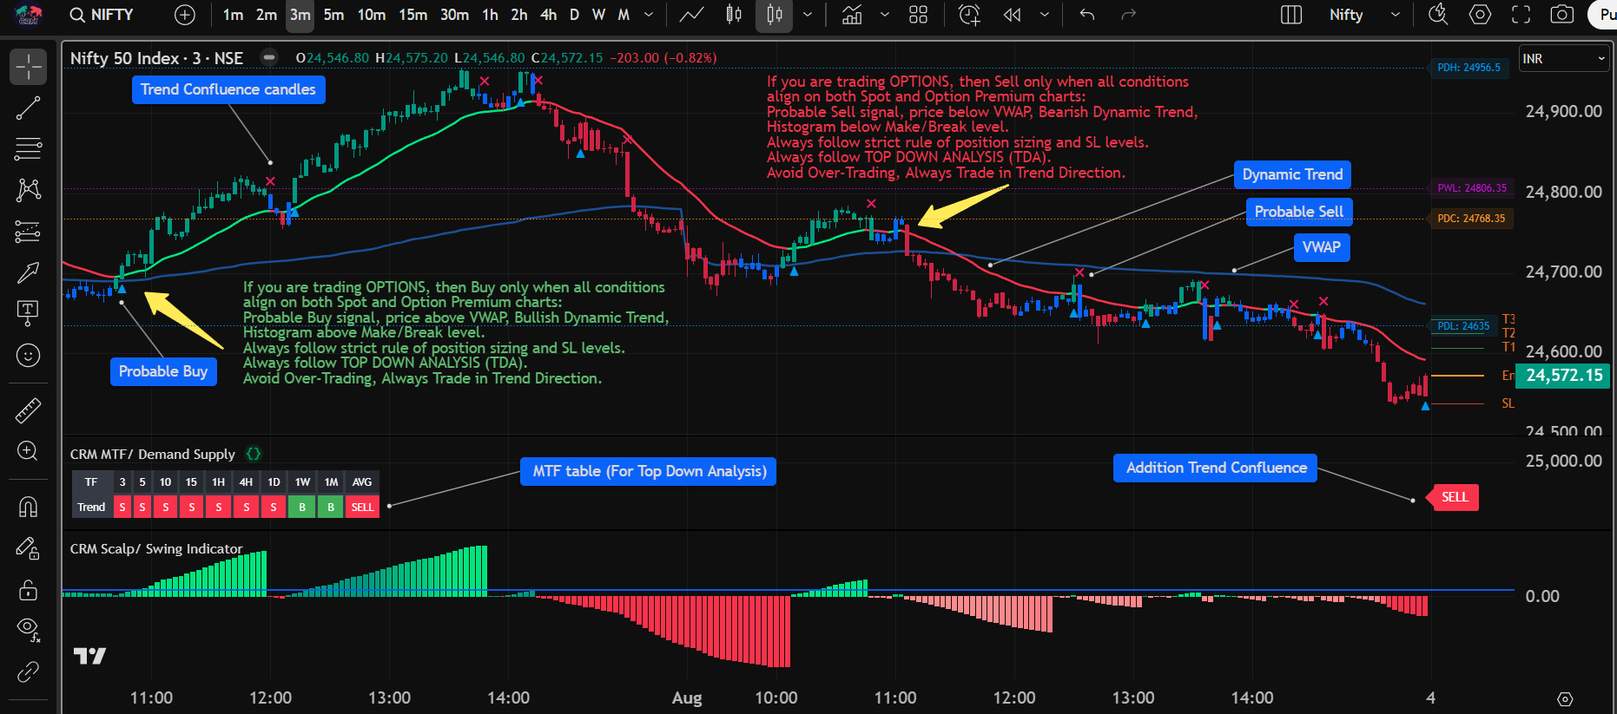
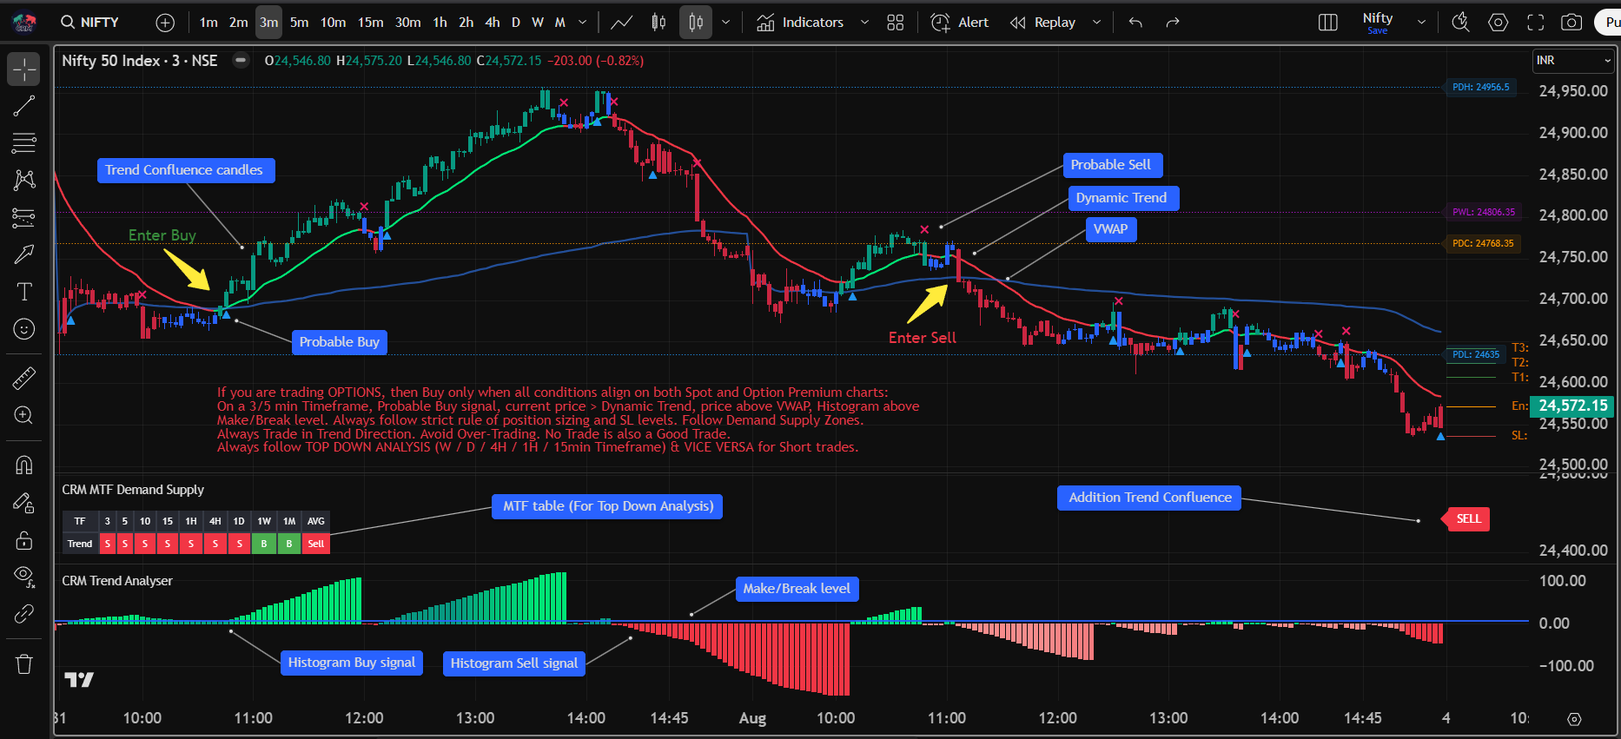
updated indicator titles and content

diff --git a/script.js b/script.js
@@ -11,7 +11,7 @@ const translations = {
     // indicator1.html Translations
     indicator_title: "CRM Trend Analyser",
     view_tradingview: "📈 View on TradingView",
-    main_heading_trend: "💡 CRM Trend Analyser PRO– <span class='highlight'>Smart Entry Level Alert Tool</span> 💡",
+    main_heading_trend: "💡 CRM Trend Analyser – <span class='highlight'>Smart Entry Level Alert Tool</span> 💡",
     subheading: "Entry-Level | Multi-Timeframe | All Segment Support",
     feature_breakout_title: "✅ Breakout-Based Trading System",
     feature_breakout_1: "Detects breakout zones using <span class='highlight'>custom price structure</span> and <span class='highlight'>moving average logic</span>",
@@ -78,12 +78,12 @@ const translations = {
     hero_btn_explore: "Explore Plans",
     hero_btn_contact: "Contact Us",
     indicators_title: "Our Creative Indicators (Premium)",
-    indicator_trend_title: 'CRM<br>Trend Analyser<br>(Free Trial)',
-    indicator_trend_desc: "<strong>CRM Trend Analyser PRO combines moving averages, oscillators, volatility-based targets, and supply-demand zones to deliver precise entry and exit signals, enhancing decision-making for scalpers, swing traders, and investors.</strong>",
+    indicator_trend_title: 'CRM<br>Trend Analyser',
+    indicator_trend_desc: "<strong>CRM Trend Analyser combines moving averages, oscillators, volatility-based targets, and supply-demand zones to deliver precise entry and exit signals, enhancing decision-making for scalpers, swing traders, and investors.</strong>",
     indicator_learn_more: "Learn More",
-    indicator_scalp_title: "CRM<br>Scalp / Swing",
-    indicator_demand_title: "CRM MTF/Demand Supply",
-    indicator_demand_desc: "<strong>CRM MTF/Demand Supply is a smart trend-tracking tool that shows a multi-timeframe trend table and auto-plots demand/supply zones—so you can spot market direction and key levels without switching charts.</strong>",
+    indicator_scalp_title: "CRM<br>Scalp Swing<br>(FREE)",
+    indicator_demand_title: "CRM MTF Demand Supply",
+    indicator_demand_desc: "<strong>CRM MTF Demand Supply is a smart trend-tracking tool that shows a multi-timeframe trend table and auto-plots demand/supply zones—so you can spot market direction and key levels without switching charts.</strong>",
     indicator_screener_title: "CRM Stock Screener",
     indicator_screener_desc: "CRM Stock Screener",
     indicator_option_title: "CRM Option Chain Decoder",
@@ -223,13 +223,13 @@ const translations = {
     feature_try_now_3: "Easy setup – just apply and start trading",
     feature_try_now_quote: "<span class='highlight'>“The best traders don’t predict the market – they align with it.”</span>",
     //ema+st
-    indicator_ema_st_desc : "<strong>CRM Multi EMA PRO with Supertrend combines EMAs (20, 50, 200) with institutional-grade Supertrend logic to generate high-probability signals, offering a clean, customizable interface for all trading styles.</strong>",
-    page_title_emasupertrend: "CRM<br>EMA/ Supertrend<br>(FREE)",
-    main_heading_ema: "💡 CRM Multi-EMA Pro with Supertrend – <span class='highlight'>Institutional-Grade Trend Analysis</span> 💡",
+    indicator_ema_st_desc : "<strong>CRM EMA Supertrend combines EMAs (9,20) with institutional-grade Supertrend logic to generate high-probability signals, offering a clean, customizable interface for all trading styles.</strong>",
+    page_title_emasupertrend: "CRM<br>EMA Supertrend<br>(FREE)",
+    main_heading_ema: "💡 CRM EMA Supertrend – <span class='highlight'>Institutional-Grade Trend Analysis</span> 💡",
     subheading_ema: "Harmonizing key EMAs with Supertrend for high-probability trade signals",
     feature_professional_title: "📊 Professional-Grade Features",
     feature_professional_1: "<span class='highlight'>Adaptive Signal Logic</span>: Patented Supertrend algorithm for precise trend reversals",
-    feature_professional_2: "<span class='highlight'>Multi-Timeframe Confirmation</span>: Validates trades when current price > EMA20 > EMA50 > EMA200",
+    feature_professional_2: "<span class='highlight'>Multi-Timeframe Confirmation</span>: Validates trades when current price > EMA9 > EMA15",
     feature_professional_3: "Clean visualization with toggleable Supertrend baseline",
     feature_professional_4: "One-click execution support for manual and automated trading",
     feature_design_title: "🎨 User-Centric Design",
@@ -251,13 +251,13 @@ const translations = {
     feature_usage_note_1: "For optimal results, combine with volume analysis and key support/resistance levels.",
     feature_usage_note_quote: "<span class='highlight'>“Institutional-grade trend analysis, simplified for every trader.”</span>",
     //ema+rsi
-    indicator_ema_rsi_desc : "<strong>CRM EMA Cross-over with RSI is a momentum-based trading tool that combines EMA crossovers, RSI strength, and VWAP confluence to deliver precise intraday entry signals, ideal for scalpers and options traders.</strong>",
-    page_title_emarsi: "CRM <br>EMA Cross/ RSI <br>(FREE)",
-    main_heading_ema_rsi: "💡 CRM EMA Cross/ RSI – <span class='highlight'>Precision Trend Trading Made Easy</span> 💡",
+    indicator_ema_rsi_desc : "<strong>CRM EMA Cross RSI is a momentum-based trading tool that combines EMA crossovers, RSI strength, and VWAP confluence to deliver precise intraday entry signals, ideal for scalpers and options traders.</strong>",
+    page_title_emarsi: "CRM<br>EMA Cross RSI<br>(FREE)",
+    main_heading_ema_rsi: "💡 CRM EMA Cross RSI – <span class='highlight'>Precision Trend Trading Made Easy</span> 💡",
     subheading_ema_rsi: "Master short-term momentum with EMA alignments, RSI confirmation, and VWAP filters",
     feature_key_title: "🔍 Key Features",
-    feature_key_1: "📈 <span class='highlight'>EMA-Based Buy/Sell Logic</span>: Buy when current price > EMA9 > EMA15, price above VWAP, and RSI > 60",
-    feature_key_2: "Sell when current price < EMA9 < EMA15, price below VWAP, and RSI < 60",
+    feature_key_1: "📈 <span class='highlight'>EMA-Based Buy/Sell Logic</span>: Buy when current price > EMA9 > EMA20, price above VWAP, and RSI above Make/Break Level",
+    feature_key_2: "Sell when current price < EMA9 < EMA20, price below VWAP, and RSI below Make/Break Level",
     feature_key_3: "Works best on 3/5 minute timeframes for intraday scalping",
     feature_visual_title: "💡 Visual Signal Overlay",
     feature_visual_1: "Clear green/red dynamic trend zones",
@@ -285,7 +285,7 @@ const translations = {
     //stock screener
     indicator_stock_screener_desc: "<strong>CRM Stock Screener is a momentum-focused tool that scans and highlights stocks showing strong price action, volume surge, and trend alignment—helping traders quickly spot high-potential breakout opportunities.</strong>",
     //scalp swing translations
-    main_heading_scalp : "💡 CRM Scalp/ Swing– <span class=highlight'>Seamless Scalps. Strategic Swings</span> 💡",
+    main_heading_scalp : "💡 CRM Scalp Swing– <span class=highlight'>Seamless Scalps. Strategic Swings</span> 💡",
     feature_breakout_4: "Plots a <span class='highlight'>momentum histogram</span> for additional confluence and trade confidence"
   },
   gu: {
@@ -368,12 +368,12 @@ const translations = {
     hero_btn_explore: "યોજનાઓ શોધો",
     hero_btn_contact: "અમારો સંપર્ક કરો",
     indicators_title: "અમારા ક્રિએટિવ સૂચકો (પ્રીમિયમ)",
-    indicator_trend_title: 'CRM<br>ટ્રેન્ડ એનાલાઇઝર<br>(મફત ટ્રાયલ)',
-    indicator_trend_desc: "<strong>CRM ટ્રેન્ડ ઍનલાઇઝર PRO મૂવિંગ ઍવરેજીઝ, ઓસિલેટર્સ, વોલેટિલિટી-આધારિત ટાર્ગેટ્સ અને સપ્લાઇ-ડિમાન્ડ ઝોન્સને જોડે છે જેથી સચોટ એન્ટ્રી અને એક્ઝિટ સિગ્નલ્સ આપે, જે સ્કેલ્પર્સ, સ્વિંગ ટ્રેડર્સ અને રોકાણકારો માટે નિર્ણય લેવાની ક્ષમતા વધારે છે.</strong>",
+    indicator_trend_title: 'CRM<br>ટ્રેન્ડ એનાલાઇઝર',
+    indicator_trend_desc: "<strong>CRM ટ્રેન્ડ ઍનલાઇઝર મૂવિંગ ઍવરેજીઝ, ઓસિલેટર્સ, વોલેટિલિટી-આધારિત ટાર્ગેટ્સ અને સપ્લાઇ-ડિમાન્ડ ઝોન્સને જોડે છે જેથી સચોટ એન્ટ્રી અને એક્ઝિટ સિગ્નલ્સ આપે, જે સ્કેલ્પર્સ, સ્વિંગ ટ્રેડર્સ અને રોકાણકારો માટે નિર્ણય લેવાની ક્ષમતા વધારે છે.</strong>",
     indicator_learn_more: "વધુ જાણો",
-    indicator_scalp_title: "CRM<br>સ્કેલ્પ / સ્વિંગ",
-    indicator_demand_title: "CRM MTF/ડિમાન્ડ સપ્લાય",
-    indicator_demand_desc: "<strong>CRM MTF/ડિમાન્ડ સપ્લાઇ એ એક સ્માર્ટ ટ્રેન્ડ-ટ્રેકિંગ ટૂલ છે જે મલ્ટી-ટાઇમફ્રેમ ટ્રેન્ડ ટેબલ દર્શાવે છે અને ડિમાન્ડ/સપ્લાઇ ઝોન્સને આપોઆપ દર્શાવે છે—જેથી તમે ચાર્ટ બદલ્યા વિના બજારની દિશા અને મુખ્ય સ્તરો શોધી શકો.</strong>",
+    indicator_scalp_title: "CRM<br>સ્કેલ્પ સ્વિંગ<br>(મફત)",
+    indicator_demand_title: "CRM MTF ડિમાન્ડ સપ્લાય",
+    indicator_demand_desc: "<strong>CRM MTF ડિમાન્ડ સપ્લાઇ એ એક સ્માર્ટ ટ્રેન્ડ-ટ્રેકિંગ ટૂલ છે જે મલ્ટી-ટાઇમફ્રેમ ટ્રેન્ડ ટેબલ દર્શાવે છે અને ડિમાન્ડ/સપ્લાઇ ઝોન્સને આપોઆપ દર્શાવે છે—જેથી તમે ચાર્ટ બદલ્યા વિના બજારની દિશા અને મુખ્ય સ્તરો શોધી શકો.</strong>",
     indicator_screener_title: "CRM સ્ટોક સ્ક્રીનર",
     indicator_screener_desc: "",
     indicator_option_title: "CRM ઓપ્શન ચેઇન ડીકોડર",
@@ -513,12 +513,12 @@ const translations = {
     feature_try_now_quote: "<span class='highlight'>“સર્વશ્રેષ્ઠ ટ્રેડર્સ બજારની આગાહી નથી કરતા – તેઓ તેની સાથે સંરેખિત થાય છે.”</span>",
     //ema+st
     indicator_ema_st_desc: "<strong>CRM મલ્ટી EMA PRO સાથે સુપરટ્રેન્ડ EMAs (20, 50, 200)ને ઇન્સ્ટિટ્યૂશનલ-ગ્રેડ સુપરટ્રેન્ડ લોજિક સાથે જોડે છે જેથી હાઇ-પ્રોબેબિલિટી સિગ્નલ્સ ઉત્પન્ન થાય, જે બધા ટ્રેડિંગ શૈલીઓ માટે સાફ અને કસ્ટમાઇઝેબલ ઇન્ટરફેસ પૂરું પાડે છે.</strong>",
-    page_title_emasupertrend: "CRM<br>EMA/ સુપરટ્રેન્ડ<br>(મફત)",
-    main_heading_ema: "💡 CRM મલ્ટી-EMA પ્રો સાથે સુપરટ્રેન્ડ – <span class='highlight'>ઇન્સ્ટિટ્યૂશનલ-ગ્રેડ ટ્રેન્ડ ઍનાલિસિસ</span> 💡",
+    page_title_emasupertrend: "CRM<br>EMA સુપરટ્રેન્ડ<br>(મફત)",
+    main_heading_ema: "💡 CRM EMA સુપરટ્રેન્ડ – <span class='highlight'>ઇન્સ્ટિટ્યૂશનલ-ગ્રેડ ટ્રેન્ડ ઍનાલિસિસ</span> 💡",
     subheading_ema: "હાઇ-પ્રોબેબિલિટી ટ્રેડ સિગ્નલ્સ માટે કી EMAsને સુપરટ્રેન્ડ સાથે સુસંગત કરે છે",
     feature_professional_title: "📊 પ્રોફેશનલ-ગ્રેડ ફીચર્સ",
     feature_professional_1: "<span class='highlight'>અડેપ્ટિવ સિગ્નલ લોજિક</span>: પેટન્ટેડ સુપરટ્રેન્ડ ઍલ્ગોરિથમ દ્વારા પ્રિસાઇઝ ટ્રેન્ડ રિવર્સલ્સ",
-    feature_professional_2: "<span class='highlight'>મલ્ટી-ટાઇમફ્રેમ પુષ્ટિ</span>: વર્તમાન કિંમત > EMA20 > EMA50 > EMA200 હોય ત્યારે ટ્રેડ્સની પુષ્ટિ કરે છે",
+    feature_professional_2: "<span class='highlight'>મલ્ટી-ટાઇમફ્રેમ પુષ્ટિ</span>: વર્તમાન કિંમત > EMA9 > EMA15 હોય ત્યારે ટ્રેડ્સની પુષ્ટિ કરે છે",
     feature_professional_3: "ટૉગલેબલ સુપરટ્રેન્ડ બેઝલાઇન સાથે સાફ વિઝ્યુઅલાઇઝેશન",
     feature_professional_4: "મેન્યુઅલ અને ઑટોમેટેડ ટ્રેડિંગ માટે એક-ક્લિક એક્ઝિક્યુશન સપોર્ટ",
     feature_design_title: "🎨 યુઝર-સેન્ટ્રિક ડિઝાઇન",
@@ -540,13 +540,13 @@ const translations = {
     feature_usage_note_1: "શ્રેષ્ઠ પરિણામો માટે, વોલ્યુમ ઍનાલિસિસ અને કી સપોર્ટ/રેઝિસ્ટન્સ લેવલ્સ સાથે જોડી દો.",
     feature_usage_note_quote: "<span class='highlight'>“ઇન્સ્ટિટ્યૂશનલ-ગ્રેડ ટ્રેન્ડ ઍનાલિસિસ, દરેક ટ્રેડર માટે સરળ કરેલ.”</span>",
     //ema+rsi
-    indicator_ema_rsi_desc: "<strong>CRM EMA ક્રોસઓવર સાથે RSI એક મોમેન્ટમ-આધારિત ટ્રેડિંગ ટૂલ છે જે EMA ક્રોસઓવર્સ, RSI શક્તિ અને VWAP કન્ફલ્યુએન્સને જોડે છે જેથી સચોટ ઇન્ટ્રાડે એન્ટ્રી સિગ્નલ્સ આપે, જે સ્કેલ્પર્સ અને ઓપ્શન્સ ટ્રેડર્સ માટે યોગ્ય છે.</strong>",
-    page_title_emarsi: "CRM<br>EMA ક્રોસ/ RSI<br>(મફત)",
-    main_heading_ema_rsi: "💡 CRM EMA ક્રોસ/ RSI – <span class='highlight'>પ્રિસિઝન ટ્રેન્ડ ટ્રેડિંગ સરળ બનાવે છે</span> 💡",
+    indicator_ema_rsi_desc: "<strong>CRM EMA ક્રોસ RSI એક મોમેન્ટમ-આધારિત ટ્રેડિંગ ટૂલ છે જે EMA ક્રોસઓવર્સ, RSI શક્તિ અને VWAP કન્ફલ્યુએન્સને જોડે છે જેથી સચોટ ઇન્ટ્રાડે એન્ટ્રી સિગ્નલ્સ આપે, જે સ્કેલ્પર્સ અને ઓપ્શન્સ ટ્રેડર્સ માટે યોગ્ય છે.</strong>",
+    page_title_emarsi: "CRM<br>EMA ક્રોસ RSI<br>(મફત)",
+    main_heading_ema_rsi: "💡 CRM EMA ક્રોસ RSI – <span class='highlight'>પ્રિસિઝન ટ્રેન્ડ ટ્રેડિંગ સરળ બનાવે છે</span> 💡",
     subheading_ema_rsi: "EMA ગોઠવણીઓ, RSI પુષ્ટિ અને VWAP ફિલ્ટર્સ સાથે શોર્ટ-ટર્મ મોમેન્ટમ માસ્ટર કરો",
     feature_key_title: "🔍 કી ફીચર્સ",
-    feature_key_1: "📈 <span class='highlight'>EMA-આધારિત ખરીદો/વેચો લોજિક</span>: વર્તમાન કિંમત > EMA9 > EMA15 હોય, કિંમત VWAPથી ઉપર હોય, અને RSI > 60 હોય ત્યારે ખરીદો",
-    feature_key_2: "વેચો જ્યારે વર્તમાન કિંમત < EMA9 < EMA15 હોય, કિંમત VWAPથી નીચે હોય, અને RSI < 60 હોય",
+    feature_key_1: "📈 <span class='highlight'>EMA-આધારિત ખરીદો/વેચો લોજિક</span>: વર્તમાન કિંમત > EMA9 > EMA20 હોય, કિંમત VWAPથી ઉપર હોય, અને RSI મેક/બ્રેક લેવલથી ઉપર હોય ત્યારે ખરીદો",
+    feature_key_2: "વેચો જ્યારે વર્તમાન કિંમત < EMA9 < EMA20 હોય, કિંમત VWAPથી નીચે હોય, અને RSI મેક/બ્રેક લેવલથી નીચે હોય",
     feature_key_3: "ઇન્ટ્રાડે સ્કેલ્પિંગ માટે 3/5 મિનિટ ટાઇમફ્રેમ્સ પર સર્વોत्तમ કામ કરે છે",
     feature_visual_title: "💡 વિઝ્યુઅલ સિગ્નલ ઓવરલે",
     feature_visual_1: "સ્પષ્ટ ગ્રીન/રેડ ડાયનામિક ટ્રેન્ડ ઝોન્સ",
@@ -572,7 +572,7 @@ const translations = {
     feature_try_now_3: "🔹 લોન્ચ પીરિયડ દરમિયાન ફ્રી – હવે ટ્રાય કરો!",
     feature_try_now_quote: "<span class='highlight'>“તમારું એજ ફક્ત ટાઇમિંગ નથી – એ સાચા મોમેન્ટમ સાથે સંરેખન છે.”</span>",
     //scalp    
-    main_heading_scalp: "💡 CRM સ્કેલ્પ/ સ્વિંગ– <span class='highlight'>સરળ સ્કેલ્પ્સ. રણનીતિગત સ્વિંગ્સ</span> 💡",
+    main_heading_scalp: "💡 CRM સ્કેલ્પ સ્વિંગ– <span class='highlight'>સરળ સ્કેલ્પ્સ. રણનીતિગત સ્વિંગ્સ</span> 💡",
     feature_breakout_4: "એક <span class='highlight'>મોમેન્ટમ હિસ્ટોગ્રામ</span> પ્લોટ કરે છે જે ઉમેરાની કન્ફલ્યુએન્સ અને ટ્રેડ આત્મવિશ્વાસ માટે છે",
     //screener
     indicator_stock_screener_desc: "<strong>CRM સ્ટોક સ્ક્રીનર એક મોમેન્ટમ-ફોકસ્ડ ટૂલ છે જે સ્ટોક્સને સ્કેન કરે છે અને મજબૂત કિંમતી કાર્યવાહી, વોલ્યુમ સર્જ અને ટ્રેન્ડ સંરેખણ દર્શાવે છે—જે ટ્રેડર્સને ઝડપથી ઉચ્ચ-સંભાવના બ્રેકઆઉટ તકો શોધવામાં મદદ કરે છે.</strong>"
@@ -657,12 +657,12 @@ const translations = {
     hero_btn_explore: "योजना शोधा",
     hero_btn_contact: "आमच्याशी संपर्क साधा",
     indicators_title: "आमचे क्रिएटिव्ह इंडिकेटर (प्रिमियम)",
-    indicator_trend_title: 'CRM<br>ट्रेंड अॅनालायझर<br>(मोफत चाचणी)',
-    indicator_trend_desc: "<strong>CRM ट्रेंड एनालायझर PRO मूव्हिंग ऍव्हरेजेस, ऑसिलेटर्स, व्होलॅटिलिटी-आधारित लक्ष्ये आणि सप्लाय-डिमांड झोन एकत्र करते ज्यामुळे अचूक एंट्री आणि एक्झिट सिग्नल्स मिळतात, जे स्कॅल्पर्स, स्विंग ट्रेडर्स आणि गुंतवणूकदारांसाठी निर्णयक्षमता वाढवते.</strong>",
+    indicator_trend_title: 'CRM<br>ट्रेंड अॅनालायझर',
+    indicator_trend_desc: "<strong>CRM ट्रेंड एनालायझर मूव्हिंग ऍव्हरेजेस, ऑसिलेटर्स, व्होलॅटिलिटी-आधारित लक्ष्ये आणि सप्लाय-डिमांड झोन एकत्र करते ज्यामुळे अचूक एंट्री आणि एक्झिट सिग्नल्स मिळतात, जे स्कॅल्पर्स, स्विंग ट्रेडर्स आणि गुंतवणूकदारांसाठी निर्णयक्षमता वाढवते.</strong>",
     indicator_learn_more: "अधिक जाणून घ्या",
-    indicator_scalp_title: "CRM<br>स्कॅल्प / स्विंग",
-    indicator_demand_title: "CRM MTF/डिमांड सप्लाय",
-    indicator_demand_desc: "<strong>CRM MTF/डिमांड सप्लाय हे एक स्मार्ट ट्रेंड-ट्रॅकिंग टूल आहे जे मल्टी-टाइमफ्रेम ट्रेंड टेबल दाखवते आणि डिमांड/सप्लाय झोन ऑटो-प्रॉट्स करते—जेणेकरून तुम्ही चार्ट बदलता येणार नाही तोपर्यंत बाजाराची दिशा आणि महत्त्वाचे स्तर शोधू शकता.</strong>",
+    indicator_scalp_title: "CRM<br>स्कॅल्प स्विंग<br>(मोफत)",
+    indicator_demand_title: "CRM MTF डिमांड सप्लाय",
+    indicator_demand_desc: "<strong>CRM MTF डिमांड सप्लाय हे एक स्मार्ट ट्रेंड-ट्रॅकिंग टूल आहे जे मल्टी-टाइमफ्रेम ट्रेंड टेबल दाखवते आणि डिमांड/सप्लाय झोन ऑटो-प्रॉट्स करते—जेणेकरून तुम्ही चार्ट बदलता येणार नाही तोपर्यंत बाजाराची दिशा आणि महत्त्वाचे स्तर शोधू शकता.</strong>",
     indicator_screener_title: "CRM स्टॉक स्क्रीनर",
     indicator_screener_desc: "",
     indicator_option_title: "CRM ऑप्शन चेन डीकोडर",
@@ -802,13 +802,13 @@ const translations = {
     feature_try_now_3: "सोपे सेटअप – फक्त लागू करा आणि ट्रेडिंग सुरू करा",
     feature_try_now_quote: "<span class='highlight'>“सर्वोत्तम ट्रेडर्स बाजाराची भविष्यवाणी करत नाहीत – ते त्याच्यासोबत जुळवून घेतात.”</span>",
     //ema+st
-    indicator_ema_st_desc: "<strong>CRM मल्टी EMA PRO सुपरट्रेंडसह EMAs (20, 50, 200) ला संस्थागत-ग्रेड सुपरट्रेंड लॉजिकसह एकत्र करते ज्यामुळे उच्च-प्रमाण सिग्नल्स निर्माण होतात, जे सर्व ट्रेडिंग शैलींसाठी स्वच्छ आणि सानुकूलित इंटरफेस देते.</strong>",
-    page_title_emasupertrend: "CRM<br>EMA/ सुपरट्रेंडसह<br>(मोफत)",
-    main_heading_ema: "💡 CRM मल्टी-EMA प्रो सुपरट्रेंडसह – <span class='highlight'>संस्थागत-ग्रेड ट्रेंड विश्लेषण</span> 💡",
+    indicator_ema_st_desc: "<strong>CRM EMA सुपरट्रेंडसह EMAs (9,20) ला संस्थागत-ग्रेड सुपरट्रेंड लॉजिकसह एकत्र करते ज्यामुळे उच्च-प्रमाण सिग्नल्स निर्माण होतात, जे सर्व ट्रेडिंग शैलींसाठी स्वच्छ आणि सानुकूलित इंटरफेस देते.</strong>",
+    page_title_emasupertrend: "CRM<br>EMA सुपरट्रेंडसह<br>(मोफत)",
+    main_heading_ema: "💡 CRM EMA प्सुपरट्रेंडसह – <span class='highlight'>संस्थागत-ग्रेड ट्रेंड विश्लेषण</span> 💡",
     subheading_ema: "उच्च-प्रमाणात ट्रेड सिग्नल्ससाठी की EMAs ला सुपरट्रेंडसह सुसंगत करते",
     feature_professional_title: "📊 प्रोफेशनल-ग्रेड वैशिष्ट्ये",
     feature_professional_1: "<span class='highlight'>अॅडाप्टिव्ह सिग्नल लॉजिक</span>: ट्रेंड रिव्हर्सल्ससाठी पेटंटेड सुपरट्रेंड अल्गोरिदम",
-    feature_professional_2: "<span class='highlight'>मल्टी-टाइमफ्रेम पुष्टी</span>: वर्तमान किंमत > EMA20 > EMA50 > EMA200 असताना ट्रेड्सची पुष्टी करते",
+    feature_professional_2: "<span class='highlight'>मल्टी-टाइमफ्रेम पुष्टी</span>: वर्तमान किंमत > EMA9 > EMA15 असताना ट्रेड्सची पुष्टी करते",
     feature_professional_3: "टॉगल करण्यायोग्य सुपरट्रेंड बेसलाइनसह स्वच्छ दृश्य",
     feature_professional_4: "मॅन्युअल आणि ऑटोमेटेड ट्रेडिंगसाठी एक-क्लिक अंमलबजावणी समर्थन",
     feature_design_title: "🎨 वापरकर्ता-केंद्रित डिझाइन",
@@ -830,13 +830,13 @@ const translations = {
     feature_usage_note_1: "श्रेष्ठ परिणामांसाठी, व्हॉल्यूम विश्लेषण आणि की सपोर्ट/रेझिस्टन्स स्तरांसह एकत्र करा.",
     feature_usage_note_quote: "<span class='highlight'>“संस्थागत-ग्रेड ट्रेंड विश्लेषण, प्रत्येक ट्रेडरसाठी सुलभ केले.”</span>",
     //ema+rsi
-    indicator_ema_rsi_desc: "<strong>CRM EMA क्रॉसओव्हर स्म RSI हे एक गती-आधारित ट्रेडिंग टूल आहे जे EMA क्रॉसओव्हर्स, RSI ताकद आणि VWAP कॉन्फ्लुएन्स एकत्र करते ज्यामुळे अचूक इंट्राडे एंट्री सिग्नल्स मिळतात, जे स्कॅल्पर्स आणि ऑप्शन्स ट्रेडर्ससाठी आदर्श आहे.</strong>",
-    page_title_emarsi: "CRM<br>EMA क्रॉस/ RSI<br>(मोफत)",
-    main_heading_ema_rsi: "💡 CRM EMA क्रॉस/ RSI – <span class='highlight'>प्रिसिजन ट्रेंड ट्रेडिंग सुलभ</span> 💡",
+    indicator_ema_rsi_desc: "<strong>CRM EMA क्रॉस RSI हे एक गती-आधारित ट्रेडिंग टूल आहे जे EMA क्रॉसओव्हर्स, RSI ताकद आणि VWAP कॉन्फ्लुएन्स एकत्र करते ज्यामुळे अचूक इंट्राडे एंट्री सिग्नल्स मिळतात, जे स्कॅल्पर्स आणि ऑप्शन्स ट्रेडर्ससाठी आदर्श आहे.</strong>",
+    page_title_emarsi: "CRM<br>EMA क्रॉस RSI<br>(मोफत)",
+    main_heading_ema_rsi: "💡 CRM EMA क्रॉस RSI – <span class='highlight'>प्रिसिजन ट्रेंड ट्रेडिंग सुलभ</span> 💡",
     subheading_ema_rsi: "EMA संरेषण, RSI पुष्टी आणि VWAP फिल्टर्ससह अल्पकालीन गती मास्टर करा",
     feature_key_title: "🔍 मुख्य वैशिष्ट्ये",
-    feature_key_1: "📈 <span class='highlight'>EMA-आधारित खरेदी/विक्री लॉजिक</span>: वर्तमान किंमत > EMA9 > EMA15, किंमत VWAP वर, आणि RSI > 60 असताना खरेदी करा",
-    feature_key_2: "विक्री करा जेव्हा वर्तमान किंमत < EMA9 < EMA15, किंमत VWAP खाली, आणि RSI < 60 असते",
+    feature_key_1: "📈 <span class='highlight'>EMA-आधारित खरेदी/विक्री लॉजिक</span>: वर्तमान किंमत > EMA9 > EMA20, किंमत VWAP वर, आणि RSI मेक/ब्रेक लेव्हलपेक्षा वर असताना खरेदी करा",
+    feature_key_2: "विक्री करा जेव्हा वर्तमान किंमत < EMA9 < EMA20, किंमत VWAP खाली, आणि RSI मेक/ब्रेक लेव्हलपेक्षा खाली असते",
     feature_key_3: "इंट्राडे स्कॅल्पिंगसाठी 3/5 मिनिट टाइमफ्रेम्सवर सर्वोत्तम काम करते",
     feature_visual_title: "💡 दृश्य सिग्नल ओव्हरले",
     feature_visual_1: "स्पष्ट ग्रीन/रेड डायनामिक ट्रेंड झोन",
@@ -862,7 +862,7 @@ const translations = {
     feature_try_now_3: "🔹 लॉन्च कालावधीत मोफत – आता प्रयत्न करा!",
     feature_try_now_quote: "<span class='highlight'>“तुमचा फायदा फक्त वेळ नाही – तो खऱ्या गतीसोबत संरेखन आहे.”</span>",
     //scalp
-    main_heading_scalp: "💡 CRM स्कॅल्प/ स्विंग– <span class='highlight'>सुकर स्कॅल्प्स. रणनीतीपूर्ण स्विंग्स</span> 💡",
+    main_heading_scalp: "💡 CRM स्कॅल्प स्विंग– <span class='highlight'>सुकर स्कॅल्प्स. रणनीतीपूर्ण स्विंग्स</span> 💡",
     feature_breakout_4: "एक <span class='highlight'>मोमेंटम हिस्टोग्राम</span> प्लॉट करतो जो अतिरिक्त कॉन्फ्लुएन्स आणि ट्रेड आत्मविश्वासासाठी आहे",
     //screener
     indicator_stock_screener_desc: "<strong>CRM स्टॉक स्क्रीनर हे गती-केंद्रित टूल आहे जे स्टॉक्स स्कॅन करून आणि मजबूत किंमत हालचाल, व्हॉल्यूम वाढ आणि ट्रेंड संरेखन दर्शवून ट्रेडर्सना उच्च-संभाव्य ब्रेकआउट संधी लवकर ओळखण्यास मदत करते.</strong>"

diff --git a/index.html b/index.html
@@ -55,21 +55,21 @@
     <!-- Free Indicators -->
     <h2 data-translate="free_indicators_title">Our Free Indicators</h2>
     <div class="indicator-cards">
-      <a href="indicator1.html" class="card-link-wrapper">
+      <a href="indicator2.html" class="card-link-wrapper">
         <div class="card trend-analyser">
-          <h3 data-translate="indicator_trend_title">CRM Trend Analyser PRO</h3>
+          <h3 data-translate="indicator_scalp_title">CRM Scalp Swing</h3>
           <div class="content-box">
-            <p data-translate="indicator_trend_desc"><strong>CRM Trend Analyser PRO blends moving averages, trend oscillators, volatility targets, and supply-demand zones to help traders time entries and exits with precision.</strong></p>
-            <a href="indicator1.html" class="card-link" data-translate="indicator_learn_more">Learn More</a>
+            <p data-translate="indicator_scalp_desc"><strong>CRM Scalp/Swing is a versatile indicator built for both scalping and swing trading, delivering accurate entry and exit signals tailored for quick intraday moves and sustained multi-day trade setups.</strong></p>
+            <a href="indicator2.html" class="card-link" data-translate="indicator_learn_more">Learn More</a>
           </div>
         </div>
       </a>
 
       <a href="indicator5.html" class="card-link-wrapper">
         <div class="card ema-st">
-          <h3 data-translate="page_title_emasupertrend">CRM Multi-EMA Pro with Supertrend</h3>
+          <h3 data-translate="page_title_emasupertrend">CRM EMA Supertrend</h3>
           <div class="content-box">
-            <p data-translate="indicator_ema_st_desc"><strong>CRM Multi EMA PRO with Supertrend combines EMAs (20, 50, 200) with institutional-grade Supertrend logic to generate high-probability signals, offering a clean, customizable interface for all trading styles.</strong></p>
+            <p data-translate="indicator_ema_st_desc"><strong>CRM EMA Supertrend combines EMAs (20, 50, 200) with institutional-grade Supertrend logic to generate high-probability signals, offering a clean, customizable interface for all trading styles.</strong></p>
             <a href="indicator5.html" class="card-link" data-translate="indicator_learn_more">Learn More</a>
           </div>          
         </div>
@@ -89,12 +89,21 @@
     <!-- Paid Indicators -->
     <h2 data-translate="indicators_title">Our Creative Indicators (Premium)</h2>
     <div class="indicator-cards">
-      <a href="indicator2.html" class="card-link-wrapper">
+      <!-- <a href="indicator2.html" class="card-link-wrapper">
         <div class="card scalp-swing">
           <h3 data-translate="indicator_scalp_title">CRM Scalp / Swing</h3>
           <div class="content-box">
             <p data-translate="indicator_scalp_desc"><strong>CRM Scalp/Swing is a versatile indicator built for both scalping and swing trading, delivering accurate entry and exit signals tailored for quick intraday moves and sustained multi-day trade setups.</strong></p>
             <a href="indicator2.html" class="card-link" data-translate="indicator_learn_more">Learn More</a>
+          </div>
+        </div>
+      </a> -->
+      <a href="indicator1.html" class="card-link-wrapper">
+        <div class="card trend-analyser">
+          <h3 data-translate="indicator_trend_title">CRM Trend Analyser PRO</h3>
+          <div class="content-box">
+            <p data-translate="indicator_trend_desc"><strong>CRM Trend Analyser PRO blends moving averages, trend oscillators, volatility targets, and supply-demand zones to help traders time entries and exits with precision.</strong></p>
+            <a href="indicator1.html" class="card-link" data-translate="indicator_learn_more">Learn More</a>
           </div>
         </div>
       </a>

diff --git a/indicator5.html b/indicator5.html
@@ -3,7 +3,7 @@
 <head>
   <meta charset="UTF-8" />
   <meta name="viewport" content="width=device-width, initial-scale=1.0" />
-  <title data-translate="page_title_emasupertrend">CRM Multi-EMA Pro with Supertrend</title>
+  <title data-translate="title">CRM Multi-EMA Pro with Supertrend</title>
   <link rel="stylesheet" href="https://fonts.googleapis.com/css2?family=Inter:wght@400;600;700&display=swap">
   <link rel="stylesheet" href="indicator1.css">
   <link rel="stylesheet" href="style.css">
@@ -41,7 +41,7 @@
     <div class="carousel-wrapper">
       <button class="nav-button nav-btn-left" id="prevBtn" style="display: none;">❮</button>
       <div class="carousel-track" id="carousel">
-        <img src="images/CRM Multi-EMA Pro with Supertrend.png" alt="Slide 1" class="carousel-image" />
+        <img src="images/CRM EMA SUPERTREND.png" alt="Slide 1" class="carousel-image" />
         <!-- <img src="images/CRM-EMA-Tutorial-2.png" alt="Slide 2" class="carousel-image" /> -->
       </div>
       <button class="nav-button nav-btn-right" id="nextBtn">❯</button>

diff --git a/indicator2.html b/indicator2.html
@@ -41,7 +41,7 @@
     <div class="carousel-wrapper">
       <button class="nav-button nav-btn-left" id="prevBtn" style="display: none;">❮</button>
       <div class="carousel-track" id="carousel">
-        <img src="images/CRM SWING SCALP indicator.png" alt="Slide 1" class="carousel-image" />
+        <img src="images/CRM TREND ANALYSER PRO.png" alt="Slide 1" class="carousel-image" />
         <!-- <img src="images/CRM PRO Tutorial-2.png" alt="Slide 2" class="carousel-image" /> -->
       </div>
       <button class="nav-button nav-btn-right" id="nextBtn">❯</button>

diff --git a/indicator6.html b/indicator6.html
@@ -41,7 +41,7 @@
     <div class="carousel-wrapper">
       <button class="nav-button nav-btn-left" id="prevBtn" style="display: none;">❮</button>
       <div class="carousel-track" id="carousel">
-        <img src="images/CRM EMA Crossover with RSI.png" alt="Slide 1" class="carousel-image" />
+        <img src="images/CRM EMA CROSS RSI.png" alt="Slide 1" class="carousel-image" />
         <!-- <img src="images/CRM-EMA-RSI-Tutorial-2.png" alt="Slide 2" class="carousel-image" /> -->
       </div>
       <button class="nav-button nav-btn-right" id="nextBtn">❯</button>

diff --git a/indicator1.html b/indicator1.html
@@ -42,7 +42,7 @@
       <button class="nav-button nav-btn-left" id="prevBtn" style="display: none;">❮</button>
       <div class="carousel-track" id="carousel">
         <!-- <img src="images/CRM PRO Tutorial-1.png" alt="Slide 1" class="carousel-image" /> -->
-        <img src="images/CRM PRO Tutorial-2.png" alt="Slide 2" class="carousel-image" />
+        <img src="images/CRM TREND ANALYSER.png" alt="Slide 2" class="carousel-image" />
       </div>
       <button class="nav-button nav-btn-right" id="nextBtn">❯</button>
     </div>

diff --git a/indicator4.html b/indicator4.html
@@ -3,7 +3,7 @@
 <head>
   <meta charset="UTF-8" />
   <meta name="viewport" content="width=device-width, initial-scale=1.0" />
-  <title data-translate="page_title_demandsupply">CRM Multi-Timeframe Demand & Supply Indicator</title>
+  <title data-translate="title">CRM Multi-Timeframe Demand & Supply Indicator</title>
   <link rel="stylesheet" href="https://fonts.googleapis.com/css2?family=Inter:wght@400;600;700&display=swap">
   <link rel="stylesheet" href="indicator1.css">
   <link rel="stylesheet" href="style.css">
